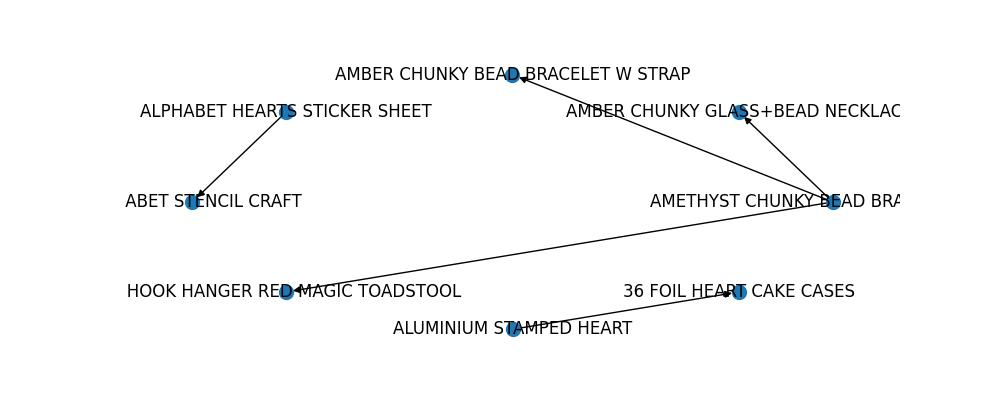
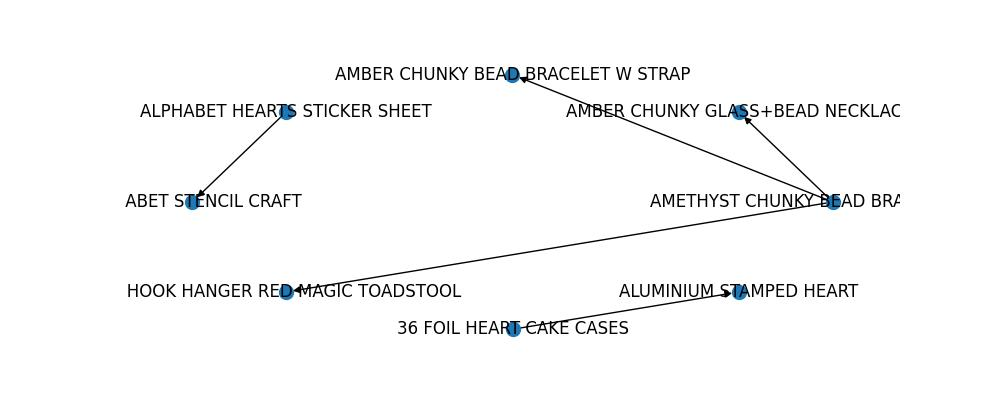
info asociacion

Changed region(s): [[0.62, 0.69, 0.868, 0.75], [0.372, 0.78, 0.651, 0.84]]

diff --git a/proyecto_csv/templates/csv/DetalleRegistro2.html b/proyecto_csv/templates/csv/DetalleRegistro2.html
@@ -27,6 +27,8 @@
                 {% endif %}
                 <a class="nav-item nav-link" id="nav-reglas-tab" data-toggle="tab" href="#nav-reglas" role="tab"
                     aria-controls="nav-reglas" aria-selected="false">Sugerencias de Promoción (reglas de asociación)</a>
+                <a class="nav-item nav-link" id="nav-info-tab" data-toggle="tab" href="#nav-info" role="tab"
+                    aria-controls="nav-info" aria-selected="false"><img src="{% static 'images/info.png' %}" width="30" height="30"/></a>
             </div>
         </nav>
         <div class="tab-content" id="nav-tabContent">

diff --git a/proyecto_csv/utils.py b/proyecto_csv/utils.py
@@ -132,8 +132,18 @@ def reglasAsociacion(id, df):
     association["leverage"] = np.round(association["leverage"], decimals = 8)  
     association["conviction"] = np.round(association["conviction"], decimals = 8)
 
+    association = association.rename(columns={'antecedents':'antecedentes', 
+                                                'consequents': 'consecuentes',
+                                                'antecedent support': 'soporte antecedente',
+                                                'consequent support': 'soporte consecuente',
+                                                'support': 'soporte',
+                                                'confidence': 'confianza',
+                                                'lift': 'elevación',
+                                                'leverage': 'apalancamiento',
+                                                'conviction': 'convicción'})
+
     fig, ax=plt.subplots(figsize=(10,4))
-    GA=nx.from_pandas_edgelist(association.head(10),source='antecedents',target='consequents')
+    GA=nx.from_pandas_edgelist(association.head(10),source='antecedentes',target='consecuentes')
     nx.draw(GA,with_labels=True,  node_size=100, arrows=True, pos=nx.circular_layout(GA))
     fig.savefig(os.path.join(settings.BASE_DIR, f'static/images/reglas/asociacion{id}.jpg'))
 
